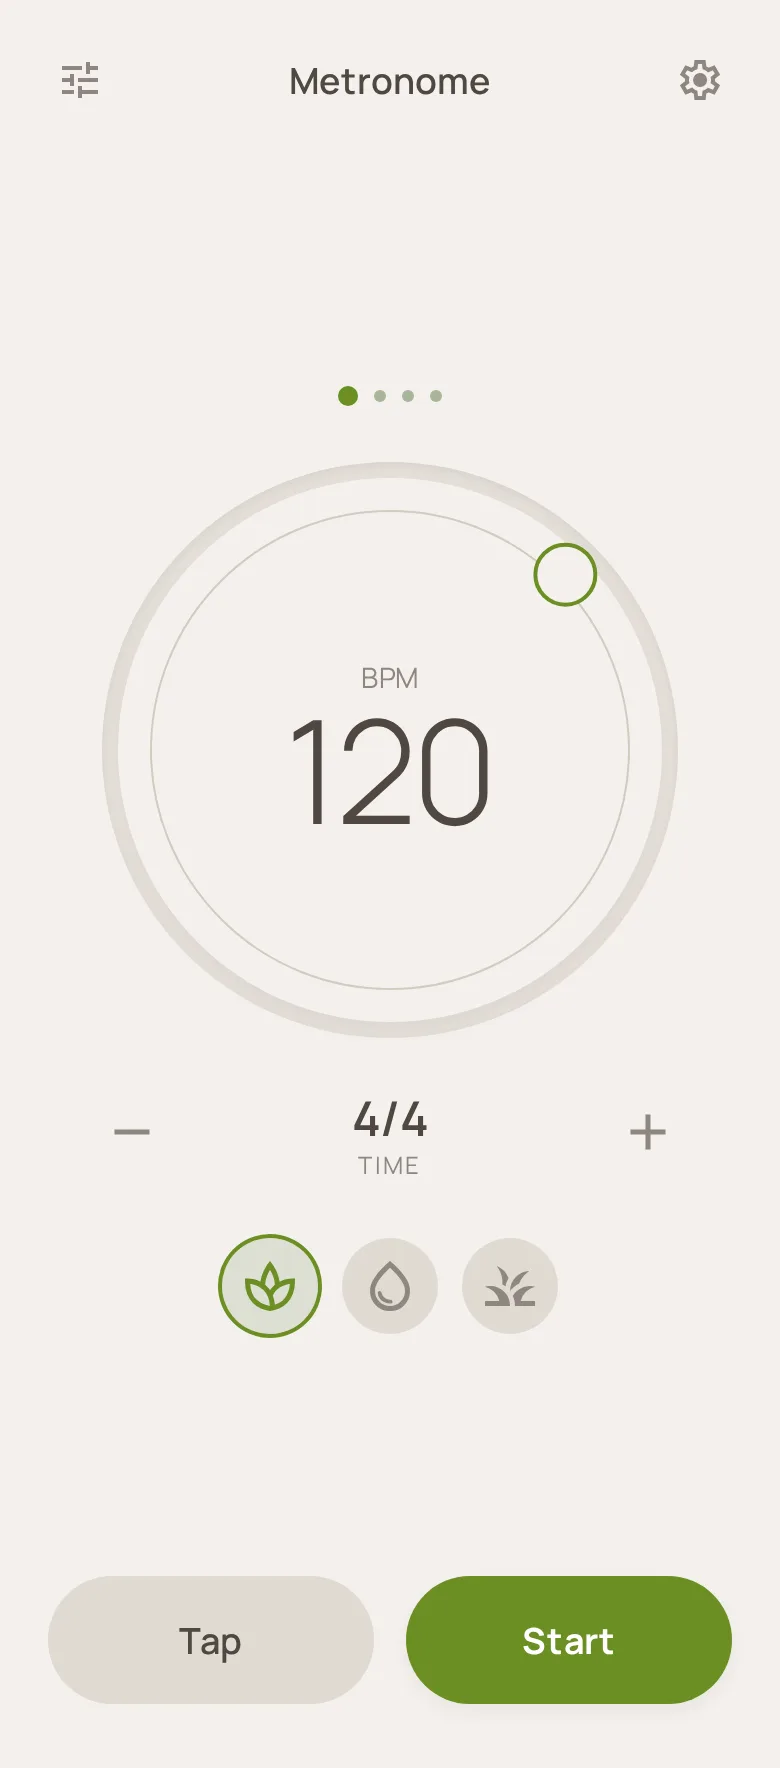
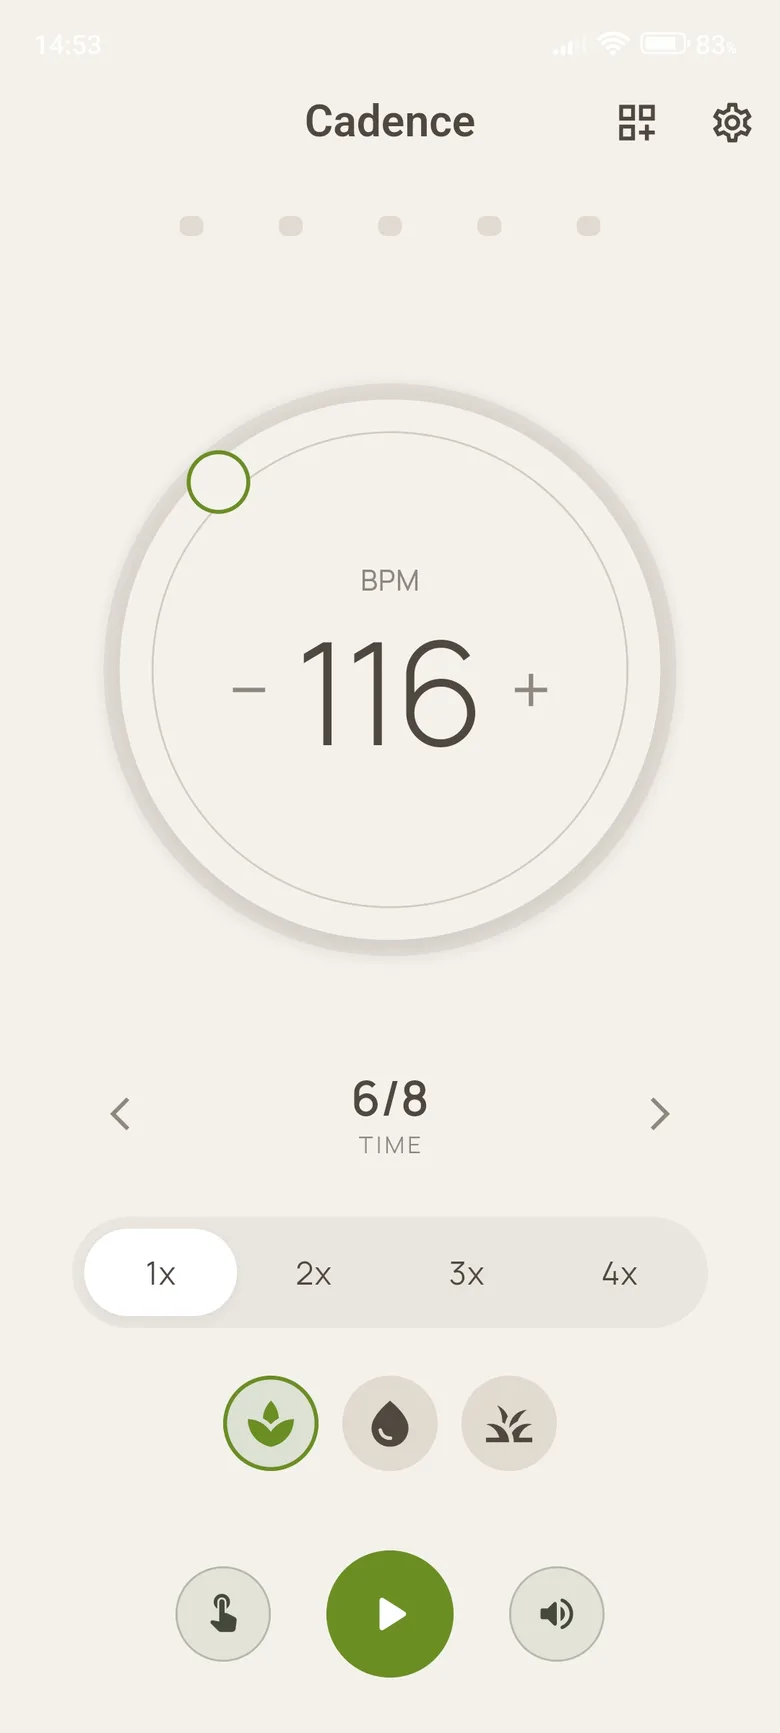
feat: capturas reales para Metronome y Polypulse
- Metronome: hero Neon + galería de los 7 temas (reemplaza light/zen/retro)
- Polypulse: hero 5:4:3 + galería real (player/mixer/coach/voces), adiós placeholders
- Home: cards con capturas reales (object-cover encuadrado)
- scripts/build-screenshots.mjs: optimiza design/screenshots → WebP 780px
- PhoneShot a 780x1733 (proporción 9:20, evita CLS); limpia key screenshotSoon
- Se descartan 4 capturas de Polypulse con mojibake (bug de la app)

diff --git a/src/app/[locale]/metronome/page.tsx b/src/app/[locale]/metronome/page.tsx
@@ -68,7 +68,11 @@ export default async function MetronomePage({ params }: Props) {
         guidesHref="/metronome/guides"
         guidesLabel={t('hero.guidesCta')}
         media={
-          <PhoneShot src="/screenshots/metronome-light.webp" alt="Cadence Metronome" priority />
+          <PhoneShot
+            src="/screenshots/metronome-neon-playing.webp"
+            alt="Cadence Metronome — tema Neon"
+            priority
+          />
         }
       />
 
@@ -96,15 +100,21 @@ export default async function MetronomePage({ params }: Props) {
         className="border-t border-border"
       >
         <ScreenshotGallery>
-          <ScreenshotItem caption={t('screenshots.light')}>
-            <PhoneShot src="/screenshots/metronome-light.webp" alt={t('screenshots.light')} />
-          </ScreenshotItem>
-          <ScreenshotItem caption={t('screenshots.zen')}>
-            <PhoneShot src="/screenshots/metronome-zen.webp" alt={t('screenshots.zen')} />
-          </ScreenshotItem>
-          <ScreenshotItem caption={t('screenshots.retro')}>
-            <PhoneShot src="/screenshots/metronome-retro.webp" alt={t('screenshots.retro')} />
-          </ScreenshotItem>
+          {(
+            [
+              ['neon', 'metronome-neon'],
+              ['neonPlaying', 'metronome-neon-playing'],
+              ['cyber', 'metronome-cyber'],
+              ['chrome', 'metronome-chrome'],
+              ['material', 'metronome-material'],
+              ['neonLight', 'metronome-neon-light'],
+              ['zen', 'metronome-zen'],
+            ] as const
+          ).map(([key, file]) => (
+            <ScreenshotItem key={key} caption={t(`screenshots.${key}`)}>
+              <PhoneShot src={`/screenshots/${file}.webp`} alt={t(`screenshots.${key}`)} />
+            </ScreenshotItem>
+          ))}
         </ScreenshotGallery>
       </Section>
 

diff --git a/src/app/[locale]/polypulse/page.tsx b/src/app/[locale]/polypulse/page.tsx
@@ -14,9 +14,9 @@ import { AppHero } from '@/components/app/AppHero';
 import { Availability } from '@/components/app/Availability';
 import { type Feature, FeatureGrid } from '@/components/app/FeatureGrid';
 import { GuidesCta } from '@/components/app/GuidesCta';
+import { PhoneShot } from '@/components/app/PhoneShot';
 import { ScreenshotGallery, ScreenshotItem } from '@/components/app/ScreenshotGallery';
 import { JsonLd } from '@/components/seo/JsonLd';
-import { ScreenshotPlaceholder } from '@/components/ui/ScreenshotPlaceholder';
 import { Section } from '@/components/ui/Section';
 import { buildPageMetadata } from '@/lib/metadata';
 import { softwareApplicationLd } from '@/lib/structured-data';
@@ -33,8 +33,6 @@ export async function generateMetadata({ params }: Props): Promise<Metadata> {
     description: t('meta.description'),
   });
 }
-
-const PHONE_PLACEHOLDER = 'aspect-[780/1768] w-full max-w-[260px] rounded-[2rem]';
 
 const FEATURE_ICONS = {
   voices: Layers,
@@ -79,10 +77,10 @@ export default async function PolypulsePage({ params }: Props) {
         guidesHref="/polypulse/guides"
         guidesLabel={t('hero.guidesCta')}
         media={
-          <ScreenshotPlaceholder
-            label="Cadence Polypulse"
-            caption={t('screenshots.player')}
-            className={PHONE_PLACEHOLDER}
+          <PhoneShot
+            src="/screenshots/polypulse-poly.webp"
+            alt="Cadence Polypulse — polirritmia 5:4:3"
+            priority
           />
         }
       />
@@ -111,13 +109,16 @@ export default async function PolypulsePage({ params }: Props) {
         className="border-t border-border"
       >
         <ScreenshotGallery>
-          {(['player', 'mixer', 'coach'] as const).map((key) => (
+          {(
+            [
+              ['player', 'polypulse-player'],
+              ['mixer', 'polypulse-mixer'],
+              ['coach', 'polypulse-coach'],
+              ['voices', 'polypulse-voices'],
+            ] as const
+          ).map(([key, file]) => (
             <ScreenshotItem key={key} caption={t(`screenshots.${key}`)}>
-              <ScreenshotPlaceholder
-                label="Cadence Polypulse"
-                caption={t(`screenshots.${key}`)}
-                className={PHONE_PLACEHOLDER}
-              />
+              <PhoneShot src={`/screenshots/${file}.webp`} alt={t(`screenshots.${key}`)} />
             </ScreenshotItem>
           ))}
         </ScreenshotGallery>

diff --git a/src/components/home/AppCard.tsx b/src/components/home/AppCard.tsx
@@ -1,5 +1,4 @@
 import { ArrowRight } from 'lucide-react';
-import { ScreenshotPlaceholder } from '@/components/ui/ScreenshotPlaceholder';
 import { Link } from '@/i18n/navigation';
 
 type AppCardProps = {
@@ -7,17 +6,26 @@ type AppCardProps = {
   name: string;
   tagline: string;
   cta: string;
-  screenshotCaption: string;
+  imageSrc: string;
+  /** Encuadre vertical del recorte aspect-video (object-position). */
+  imagePosition: string;
 };
 
 /** Card de app del home: card interactiva clickeable que enlaza al detalle. */
-export function AppCard({ href, name, tagline, cta, screenshotCaption }: AppCardProps) {
+export function AppCard({ href, name, tagline, cta, imageSrc, imagePosition }: AppCardProps) {
   return (
     <Link
       href={href}
       className="group block rounded-2xl border border-border bg-surface p-6 transition duration-200 hover:-translate-y-0.5 hover:border-accent hover:shadow-lg hover:shadow-black/5"
     >
-      <ScreenshotPlaceholder label={name} caption={screenshotCaption} className="aspect-video" />
+      <img
+        src={imageSrc}
+        alt={name}
+        width={780}
+        height={1733}
+        loading="lazy"
+        className={`aspect-video w-full rounded-xl border border-border object-cover ${imagePosition}`}
+      />
       <h3 className="mt-5 text-xl font-bold text-text">{name}</h3>
       <p className="mt-2 leading-relaxed text-text-muted">{tagline}</p>
       <span className="mt-4 inline-flex items-center gap-1.5 text-sm font-semibold text-accent">

diff --git a/src/components/home/AppsSection.tsx b/src/components/home/AppsSection.tsx
@@ -19,14 +19,16 @@ export function AppsSection() {
           name={t('metronome.name')}
           tagline={t('metronome.tagline')}
           cta={t('metronome.cta')}
-          screenshotCaption={t('screenshotSoon')}
+          imageSrc="/screenshots/metronome-neon-playing.webp"
+          imagePosition="object-[center_36%]"
         />
         <AppCard
           href="/polypulse"
           name={t('polypulse.name')}
           tagline={t('polypulse.tagline')}
           cta={t('polypulse.cta')}
-          screenshotCaption={t('screenshotSoon')}
+          imageSrc="/screenshots/polypulse-poly.webp"
+          imagePosition="object-[center_34%]"
         />
       </div>
     </Section>

diff --git a/src/components/app/PhoneShot.tsx b/src/components/app/PhoneShot.tsx
@@ -15,7 +15,7 @@ export function PhoneShot({ src, alt, className, priority = false }: PhoneShotPr
       src={src}
       alt={alt}
       width={780}
-      height={1768}
+      height={1733}
       loading={priority ? 'eager' : 'lazy'}
       className={cn(
         'h-auto w-full max-w-[260px] rounded-[2rem] border border-border shadow-xl shadow-black/10',

diff --git a/CLAUDE.md b/CLAUDE.md
@@ -317,12 +317,22 @@ color de marca (componente `ScreenshotPlaceholder`), reemplazables cuando Iván 
     ya estaban (fases 1-2); se corrigió el índice de guías para tener un `h1` único (antes el título
     salía como `h2` del `Section`). Verificado en el HTML generado (canonical/hreflang/OG/JSON-LD,
     sitemap/robots, 1 `h1` por página). Lint/TS/build limpios.
+  - Capturas reales (2026-06-13): Iván reemplazó todas las capturas fuente en `design/screenshots/`
+    (16 JPG 1080×2400). Script `scripts/build-screenshots.mjs` (sharp, 780px ancho, WebP q82) optimiza
+    las 12 elegidas a `public/screenshots/`. **Metronome**: hero Neon (en marcha) + galería de los 7
+    temas (Neon, Neon en marcha, Cyber, Chrome, Material You, Neon claro, Zen); título de sección pasó
+    a "Un tema para cada momento" (sin número). **Polypulse**: adiós placeholders — hero 5:4:3 (tres
+    voces), galería Reproductor (7:4)/Mixer/Coach/Sonidos por voz. **Home**: cards con capturas reales
+    (`object-cover` encuadrado). `PhoneShot` ajustado a 780×1733 (proporción 9:20 real, evita CLS).
+    4 capturas de Polypulse (`library`, `bpm_dialog`, `anchor_init`, `_create_dialog`) **descartadas**
+    por un bug de mojibake (UTF-8 leído como Latin-1) en la **propia app** — reintegrarlas si Iván las
+    corrige. Validado claro ES/EN; lint/build limpios.
 - **Sigue**: Fase 8 (deploy, con autorización) o Fase 9 (pulido).
 - **Pendientes diferidos**:
   - Quitar `src/app/[locale]/styleguide/` antes de producción (Fase 8). Ya está fuera del sitemap y
     con disallow en robots + `noindex` (Fase 7), pero conviene eliminar la ruta antes del deploy.
-  - Capturas reales de Polypulse (las provee Iván) → reemplazan los placeholders en `/polypulse`.
   - Iván puede ajustar el copy de apps y home (lo redactó Claude) cuando lo lea en el sitio.
+  - Si Iván corrige el mojibake de Polypulse en la app, reintegrar la captura de Library (y otras) al sitio.
 
 ### Plan de fases
 